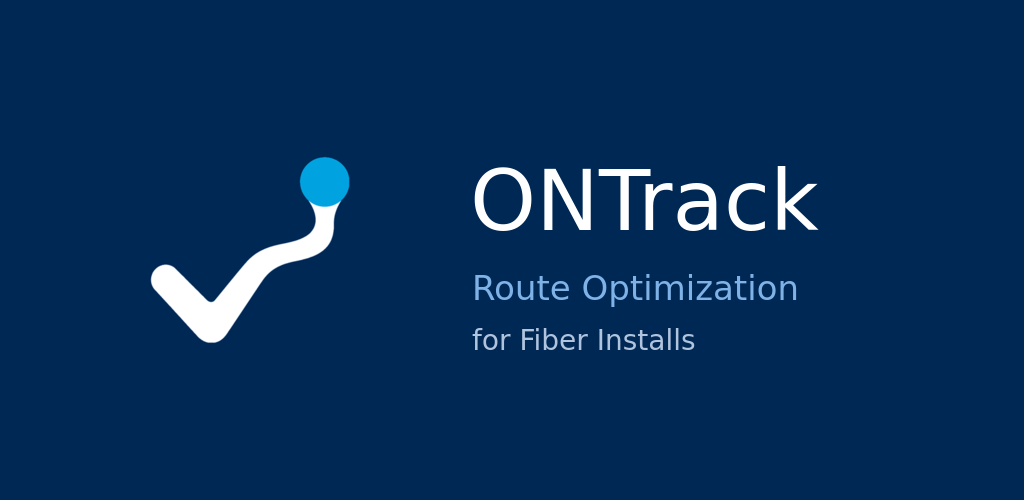
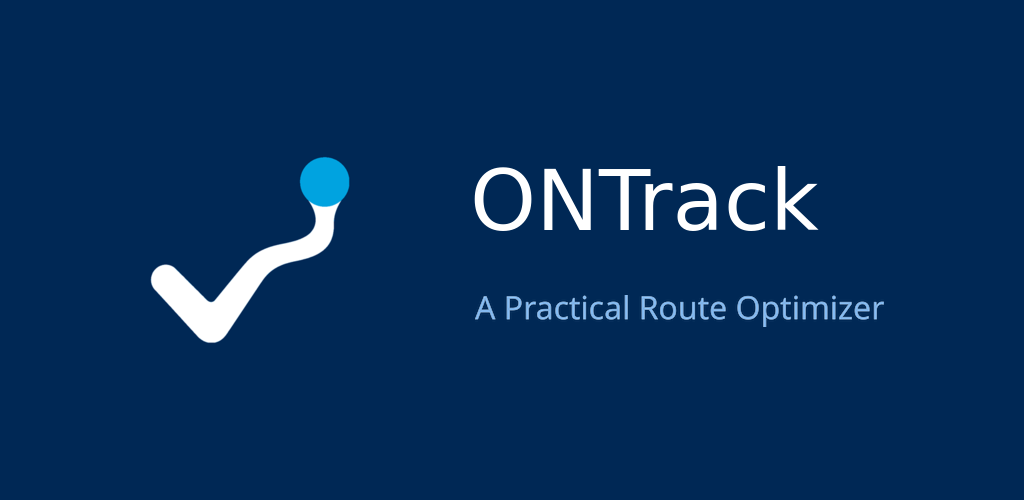
docs(readme): tagline inside hero graphic, restore intro, Quick Start via Releases, Developer info section

Changed region(s): [[0.4375, 0.54, 0.875, 0.72]]

diff --git a/README.md b/README.md
@@ -1,13 +1,12 @@
 # ONTrack — Field Route Optimizer
 
 <p align="center">
-  <img src="docs/media/ontrack-hero.png" alt="ONTrack — Route Optimization for Fiber Installs" width="720">
+  <img src="docs/media/ontrack-hero.png" alt="ONTrack — A Practical Route Optimizer" width="720">
 </p>
 
-A practical route optimizer.
+Route optimizer for field technicians and service/delivery crews.
 Import a list of stops, get back an efficient driving order, and open it in
-your maps app of choice — no cloud backend, no Python runtime, no OR-Tools
-dependency.
+your maps app of choice.
 
 Ships as two native apps sharing one core library:
 
@@ -44,7 +43,19 @@ The Android app, recorded from the current build: adding stops on Home, the Resu
 ---
 
 <details>
-<summary>Quick Start (desktop)</summary>
+<summary>Quick Start</summary>
+
+Get ONTrack from the [GitHub Releases](https://github.com/qompassai/ontrack/releases) page — the latest release is [v2026-09-10](https://github.com/qompassai/ontrack/releases/tag/v2026-09-10).
+
+- **Android phone** — get the app from the [releases page](https://github.com/qompassai/ontrack/releases).
+- **Windows desktop** — get the app from the [releases page](https://github.com/qompassai/ontrack/releases).
+
+</details>
+
+---
+
+<details>
+<summary>Developer info</summary>
 
 ```bash
 git clone https://github.com/qompassai/ontrack.git
